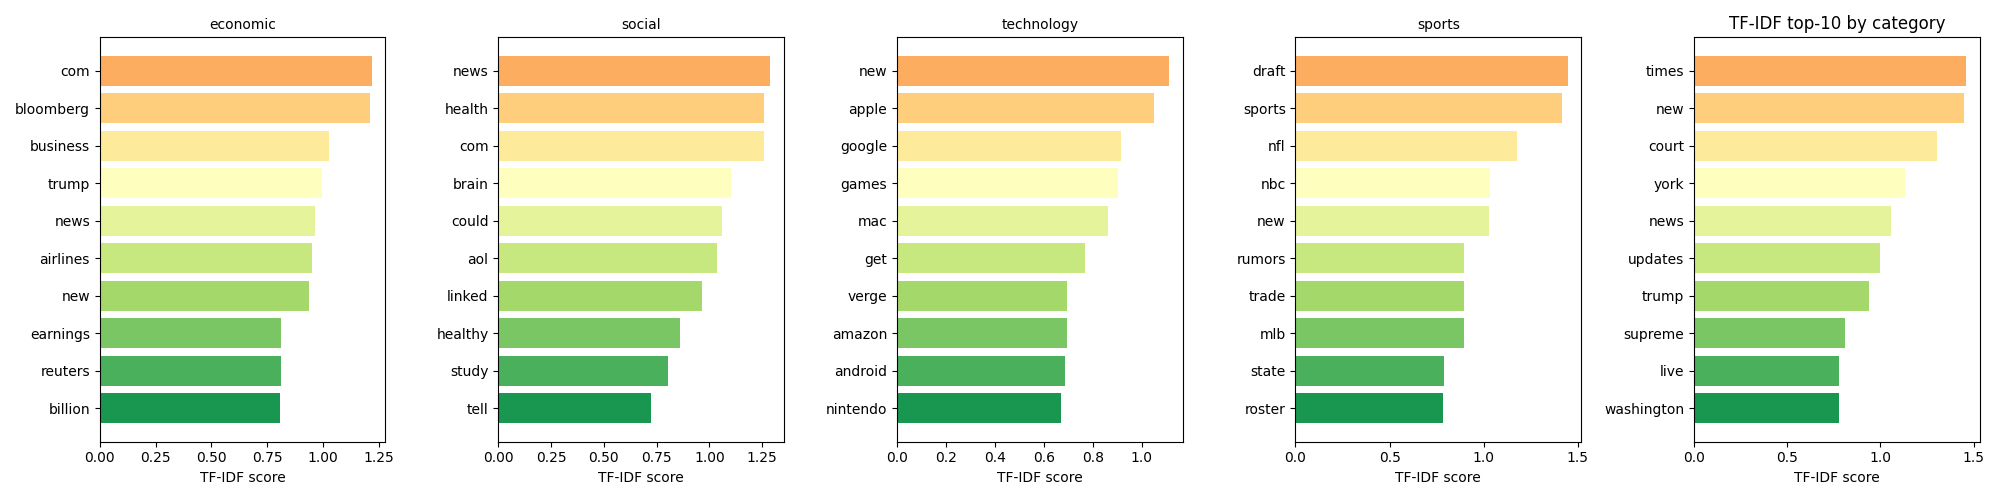
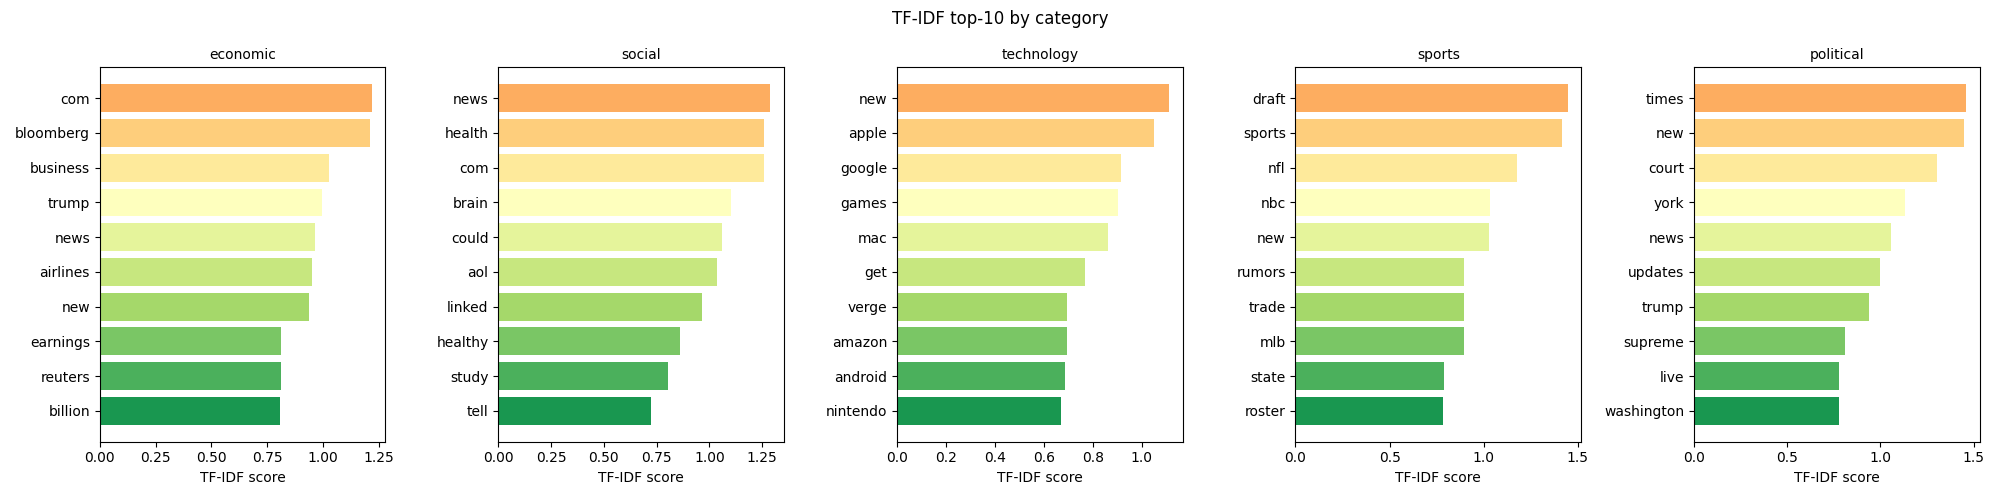
add word lengh distribution and bigrams

diff --git a/lab-4.py b/lab-4.py
@@ -9,7 +9,7 @@ from dotenv import load_dotenv
 from collections import Counter, defaultdict
 from nltk.tokenize import word_tokenize
 from nltk.corpus import stopwords
-from sklearn.feature_extraction.text import TfidfVectorizer, CountVectorizer
+from sklearn.feature_extraction.text import TfidfVectorizer
 from sklearn.cluster import KMeans
 from sklearn.metrics import silhouette_score, adjusted_rand_score, confusion_matrix
 from sklearn.metrics.pairwise import cosine_similarity
@@ -69,8 +69,18 @@ def main():
 
     plot_tfidf_bars(results["tfidf_by_category"], "./outputs/l4_tfidf.png")
 
+    for w, positions in results["dispersion_data"].items():
+        print(f" {w:<10} - {len(positions):4d} positions")
+
     plot_lexical_dispersion(results["dispersion_data"], results["top_terms"], len(ctx["article_items"]), "./outputs/l4_lexical_dispersion.png")
 
+    plot_word_length_dist(results["lengths"], "./outputs/l4_word_length_distribution.png")
+    
+    top_bigrams = results["bigrams"].most_common(20)
+    for bg, cnt in top_bigrams[:10]:
+        print(f" {' '.join(bg):<28} {cnt:4d}")
+
+    plot_bigrams(top_bigrams, "./outputs/l4_bigrams.png")
 
 
 def scrape_newsapi(api_key: str, per_category: int = 15):
@@ -294,15 +304,29 @@ def frequency_analysis(sup_cl):
         for w in top8:
             disp_data[w].extend([i + pos/max(len(toks),1) for pos, t in enumerate(toks) if t == w])
     
-    for w, positions in disp_data.items():
-        print(f" {w:<18} - {len(positions):4d} входжень")
 
+    lengths = [len(w) for w in all_tokens]
+    length_freq = Counter(lengths)
+    for l in sorted(length_freq)[:12]:
+        bar = "=" * int(length_freq[l] / max(length_freq.values()) * 10)
+        print(f"{l:2d} letters : {length_freq[l]} {bar}")
+
+
+    bigrams = Counter()
+    for item in sup_cl["article_items"]:
+        toks = get_tokens(item["text"])
+        for i in range(len(toks)-1):
+            bigrams[(toks[i], toks[i+1])] += 1
+    
 
 
     return {
         "tfidf_by_category": cat_tfidf_results,
         "dispersion_data" : disp_data,
-        "top_terms" : top8
+        "top_terms" : top8,
+        "lengths": lengths,
+        "word_length_distribution": dict(sorted(length_freq.items())),
+        "bigrams": bigrams,
     }
 
 
@@ -347,7 +371,7 @@ def plot_tfidf_bars(cat_results: dict, output_path):
         ax.set_xlabel("TF-IDF score")
     
     title = "TF-IDF top-10 by category"
-    fig.subtitle(title)
+    fig.suptitle(title)
     
     plt.tight_layout()
     plt.savefig(output_path)
@@ -364,12 +388,58 @@ def plot_lexical_dispersion(disp_data: dict, words: list, n_docs: int, output_pa
     
     ax.set_yticks(range(len(words)))
     ax.set_yticklabels(words, fontsize=10)
-    ax.set_xlabel("Позиція (документ)", fontsize=11)
+    ax.set_xlabel("Position", fontsize=11)
     
     title = "Lexical Dispersion"
     ax.set_title(title)
     ax.set_xlim(0, n_docs)
 
+    plt.tight_layout()
+    plt.savefig(output_path)
+    plt.show()
+    print(f"{title} saved to: {output_path}")
+
+
+def plot_word_length_dist(lengths: list, output_path):
+    fig, axes = plt.subplots(1, 2, figsize=(12, 5))
+    lc = Counter(lengths)
+    xs = sorted(lc.keys())
+    ys = [lc[x] for x in xs]
+ 
+    axes[0].bar(xs, ys, color="#42A5F5", edgecolor="white", linewidth=0.5)
+    axes[0].set_xlabel("Word length")
+    axes[0].set_ylabel("Frequency")
+    axes[0].set_title("Word length distribution")
+ 
+    total = sum(ys)
+    pmf = [y/total for y in ys]
+    axes[1].plot(xs, pmf, "o-", color="#EF5350", linewidth=2, markersize=6)
+    axes[1].fill_between(xs, pmf, alpha=0.15, color="#EF5350")
+    axes[1].set_xlabel("Word length", fontsize=11)
+    axes[1].set_ylabel("PMF", fontsize=11)
+    axes[1].set_title("Probability Mass Function")
+  
+    title = "word_length_dist"
+    # fig.suptitle(title)
+    
+    plt.tight_layout()
+    plt.savefig(output_path)
+    plt.show()
+    print(f"{title} saved to: {output_path}")
+
+
+def plot_bigrams(top_bigrams: list, output_path):
+    labels = [" ".join(bg) for bg, _ in top_bigrams[:15]]
+    counts = [c for _, c in top_bigrams[:15]]
+    colors = plt.cm.viridis(np.linspace(0.2, 0.85, len(labels)))
+
+    fig, ax = plt.subplots(figsize=(10, 6))
+    ax.barh(list(reversed(labels)), list(reversed(counts)), color=list(reversed(colors)))
+    ax.set_xlabel("Frequency")
+    
+    title = "Top-15 bigrams"
+    ax.set_title(title)
+    
     plt.tight_layout()
     plt.savefig(output_path)
     plt.show()
